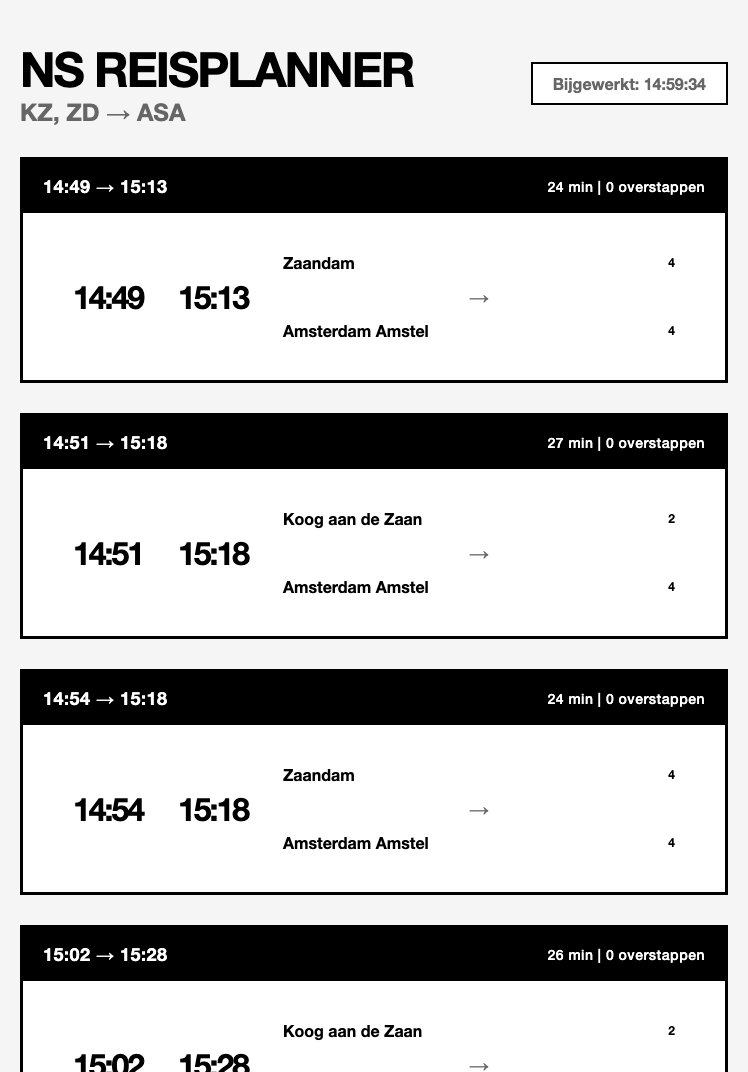
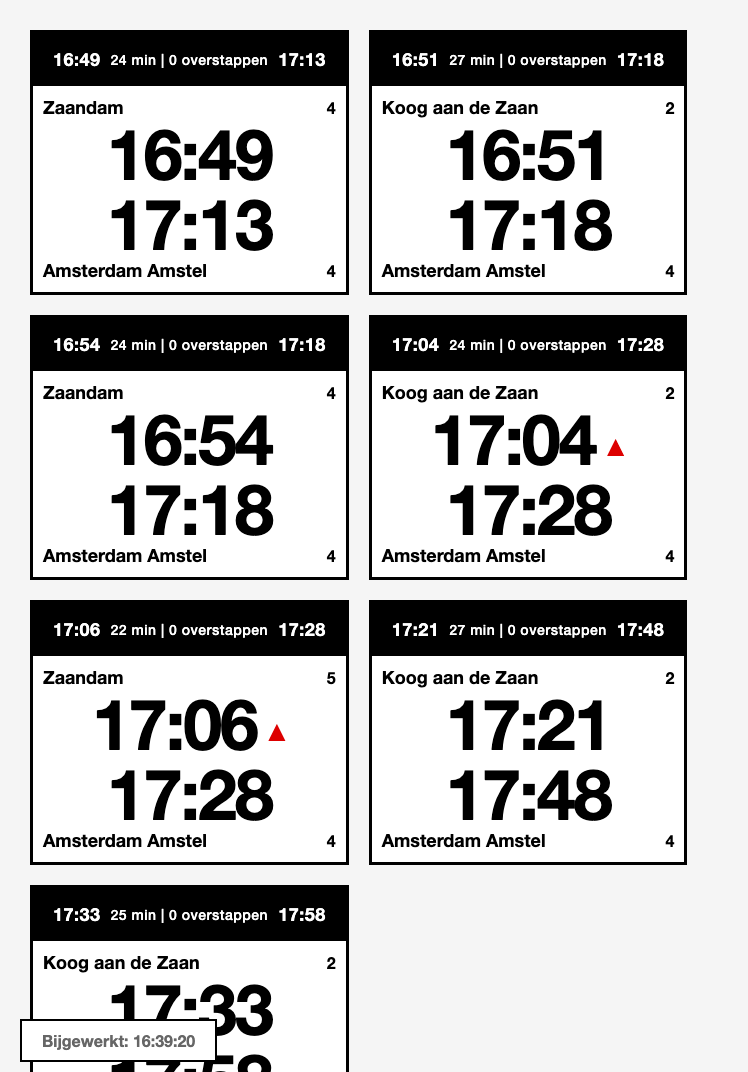
filter trips

diff --git a/webapp/src/App.jsx b/webapp/src/App.jsx
@@ -32,8 +32,17 @@ export default function App() {
         }
       }
 
+      // Filter out trips that have already departed
+      const now = new Date();
+      const futureTrips = allTrips.filter((trip) => {
+        const departureTime = new Date(
+          trip.legs[0]?.actualDeparture || trip.legs[0]?.plannedDeparture,
+        );
+        return departureTime > now;
+      });
+
       // Sort by departure time
-      allTrips.sort((a, b) => {
+      futureTrips.sort((a, b) => {
         const timeA = new Date(
           a.legs[0]?.actualDeparture || a.legs[0]?.plannedDeparture,
         );
@@ -43,7 +52,7 @@ export default function App() {
         return timeA - timeB;
       });
 
-      setTrips(allTrips);
+      setTrips(futureTrips);
       setLastUpdated(new Date());
     } catch (e) {
       console.error("Error fetching trips:", e);
